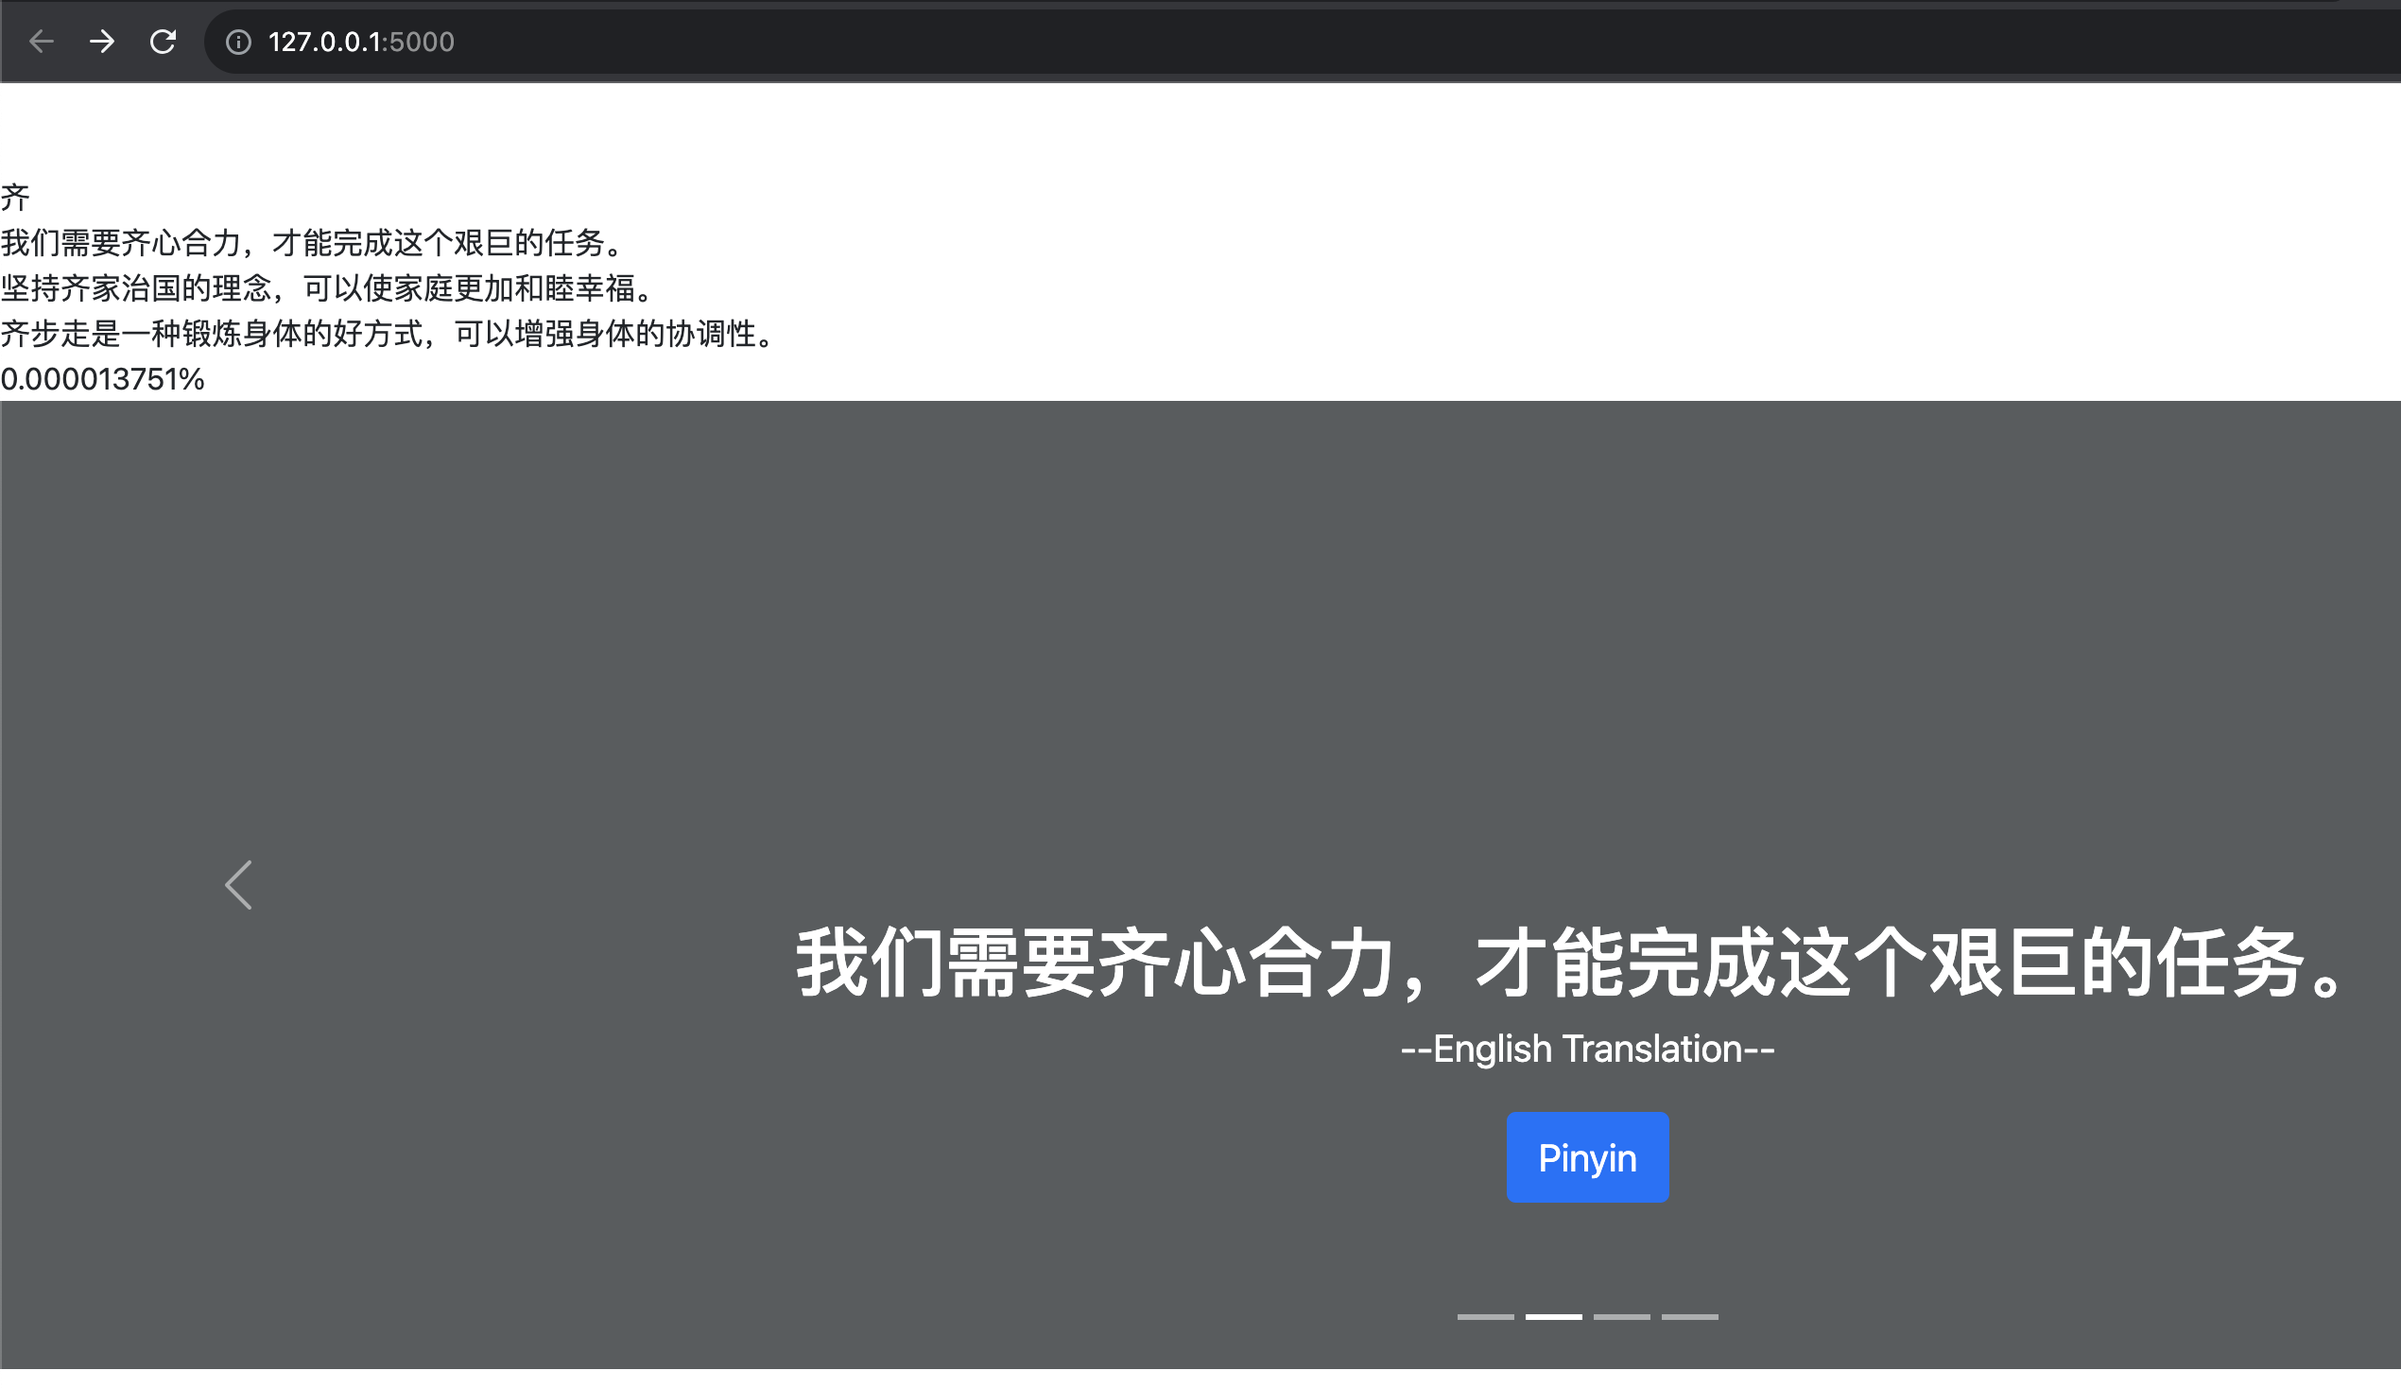
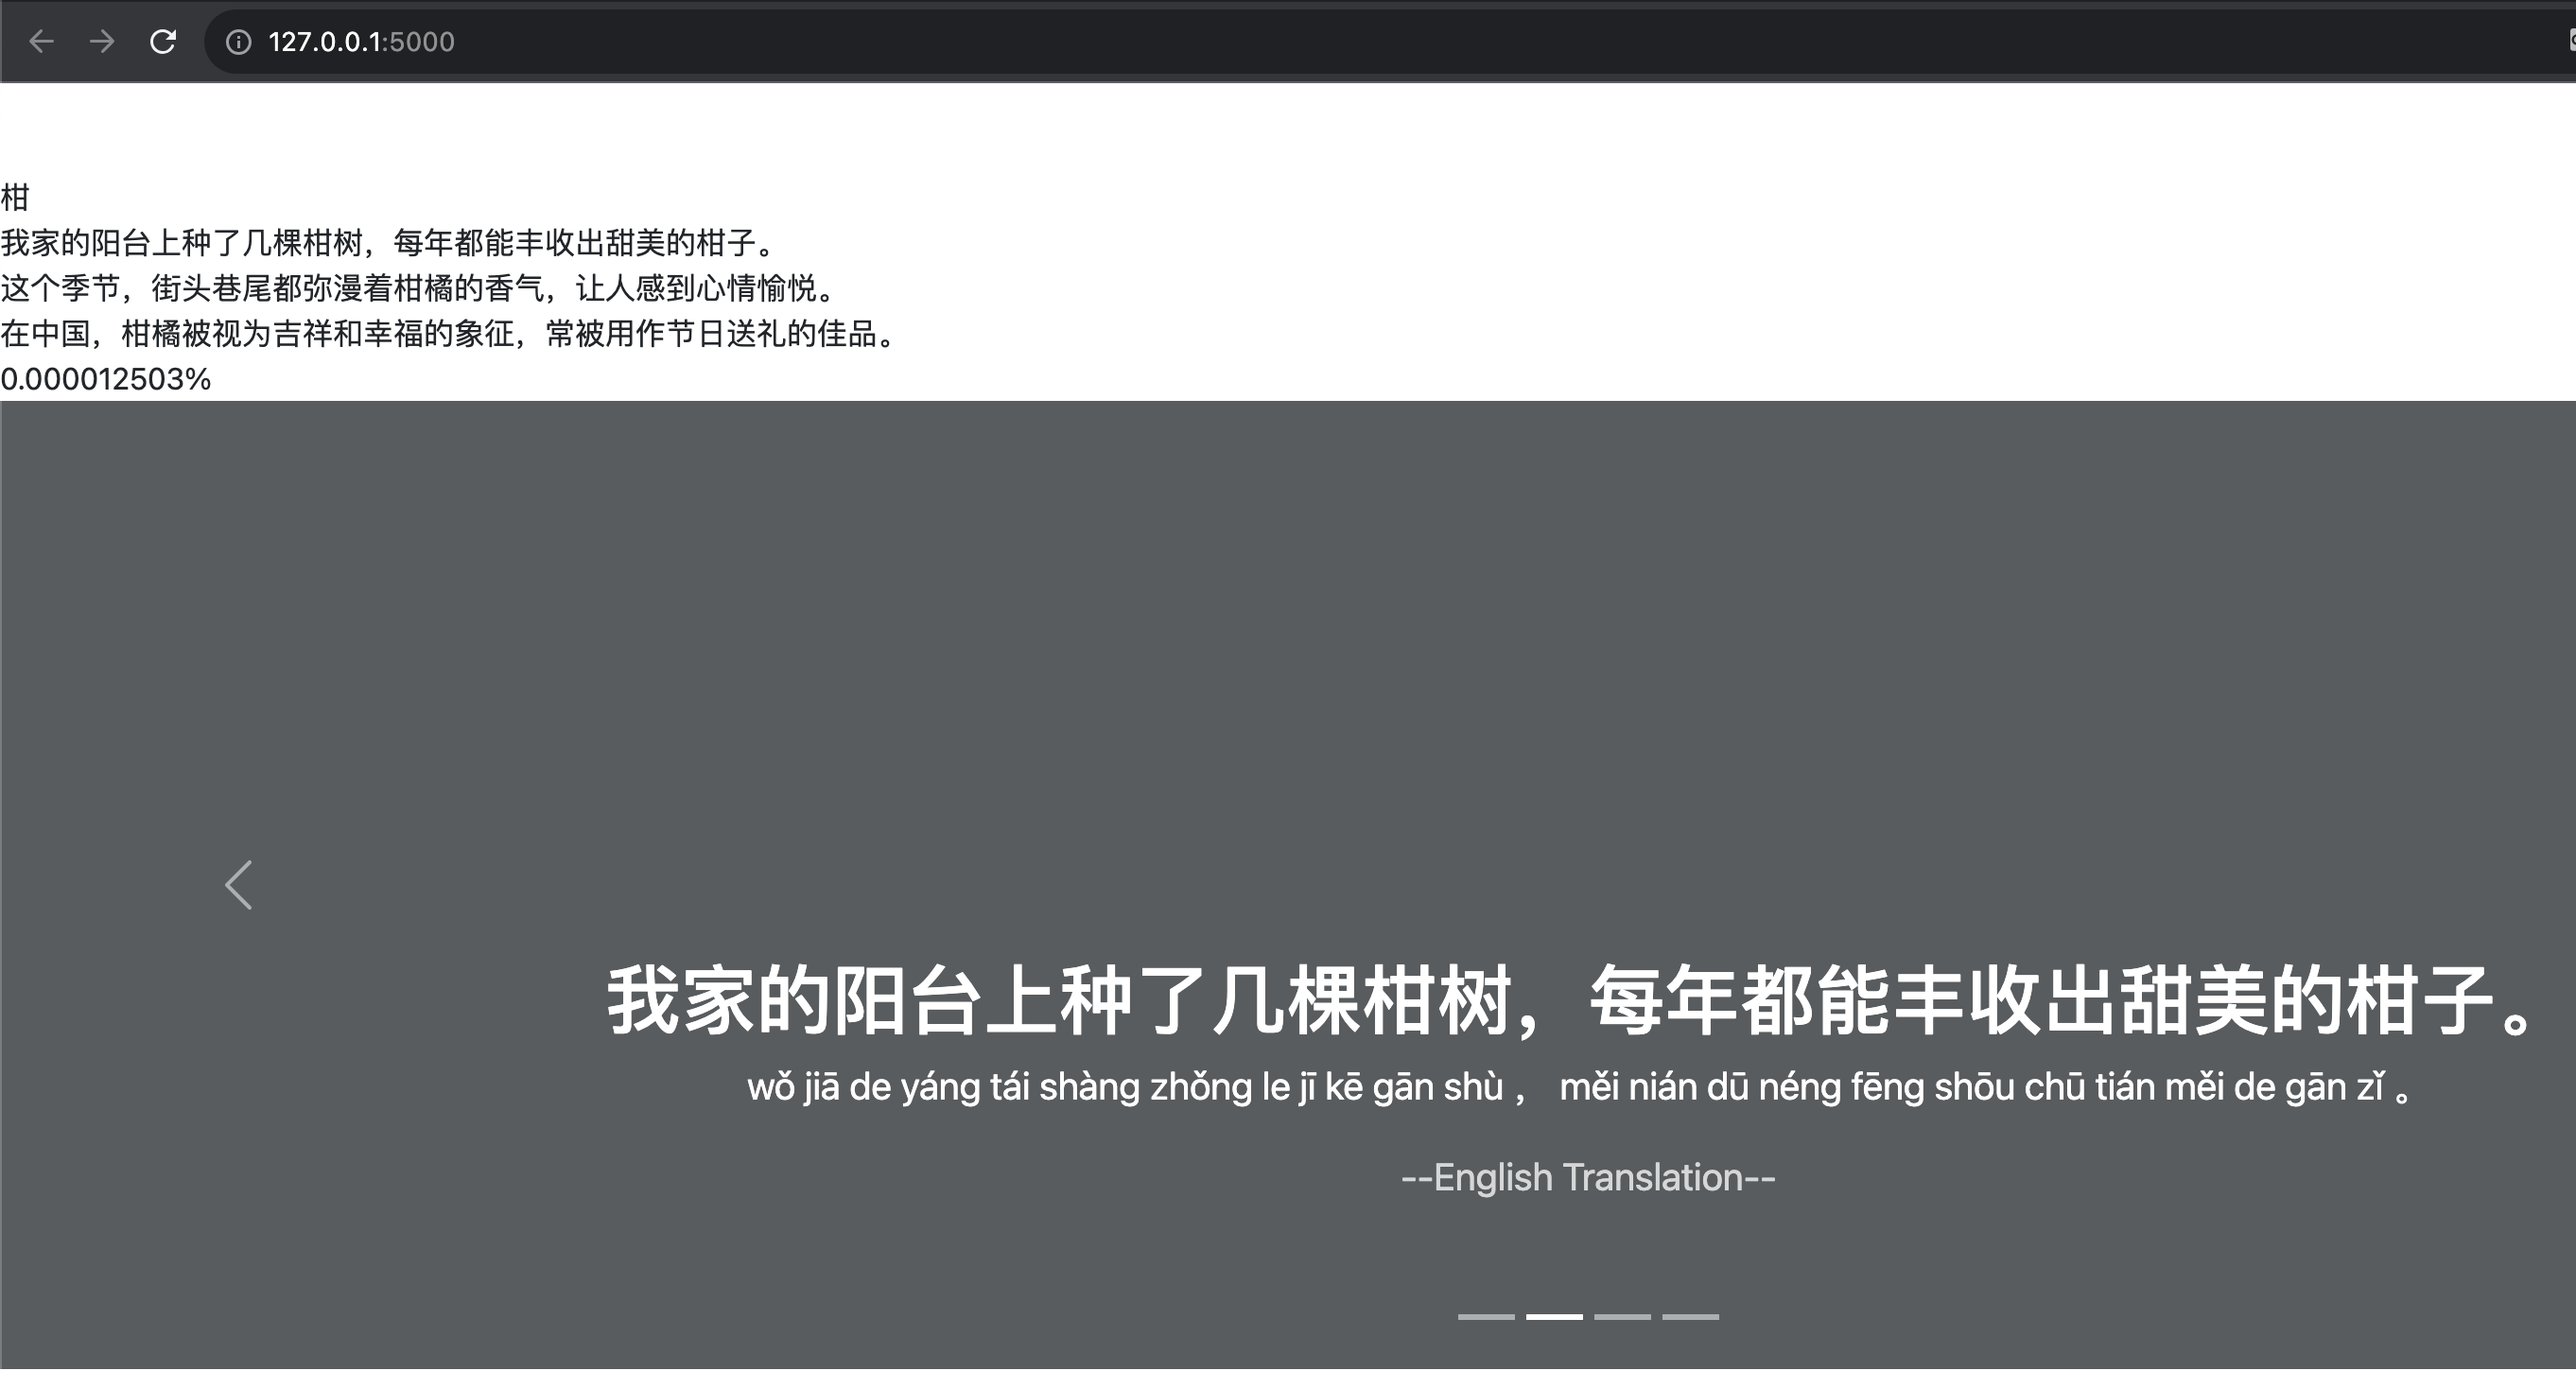
Implementing pinyin

diff --git a/templates/index.html b/templates/index.html
@@ -33,7 +33,8 @@
             <div class="container">
               <div class="carousel-caption">
                 <h1>{{character}}</h1>
-                <p><a class="btn btn-lg btn-info" href="#">Pinyin</a></p>
+<!--                <p><a class="btn btn-lg btn-info" href="#">Pinyin</a></p>-->
+                  <p>{{character_pinyin}}</p>
                 <p class="opacity-75">{{meaning}}</p>
               </div>
             </div>
@@ -44,7 +45,8 @@
             <div class="container">
               <div class="carousel-caption">
                 <h1>{{example}}</h1>
-                <p><a class="btn btn-lg btn-info" href="#">Pinyin</a></p>
+<!--                <p><a class="btn btn-lg btn-info" href="#">Pinyin</a></p>-->
+                  <p>{{examples_pinyin[loop.index-1]}}</p>
                 <p class="opacity-75">--English Translation--</p>
               </div>
             </div>

diff --git a/main.py b/main.py
@@ -4,6 +4,7 @@ import json
 import pandas as pd
 from random import choice
 from flask import Flask, render_template, request
+import pinyin
 
 
 # Start Setup
@@ -125,6 +126,7 @@ def main():
     current_entry = choice(to_learn)
     character = current_entry['Chinese']
     meaning = current_entry['English']
+    character_pinyin = pinyin.get(character, delimiter=" ")
     frequency = current_entry['Frequency Count'] / total
     frequency = f'{frequency:.9f}%'
 
@@ -136,8 +138,10 @@ def main():
 
     # Ask ChatGPT to generate some examples
     examples = chatgpt_query(character)
+    examples_pinyin = [pinyin.get(example, delimiter=" ") for example in examples]
+    print(examples_pinyin)
     # Present examples to user
-    return render_template('index.html', character=character, meaning=meaning, examples=examples, frequency=frequency)
+    return render_template('index.html', character=character, character_pinyin=character_pinyin, meaning=meaning, examples=examples, examples_pinyin=examples_pinyin, frequency=frequency)
     #return render_template('index.html')
 
 

diff --git a/README.md b/README.md
@@ -9,14 +9,14 @@ Previous iteration of this project was Bardarin, however Bards API is third part
 Built upon many aspects from my Chinese-Flash-Cards repository: https://github.com/J0K3Rn/Chinese-Flash-Cards
 
 Todo:
-- Implement Pinyin
+- Make pinyin toggleable
 - Add english translation using google
 - Add pronunciations using google speech
 - implement a refresh button to pick a new word
 How to run:
 - Download repository
 - Open downloaded repository with a command line interface
-- run `pip install openai python-dotenv pandas flask`
+- run `pip install openai python-dotenv pandas flask pinyin`
 - Create an OpenAI account
 - Create a secret key and copy it from https://platform.openai.com/account/api-keys
 - Create a .env file in the root of this project folder
